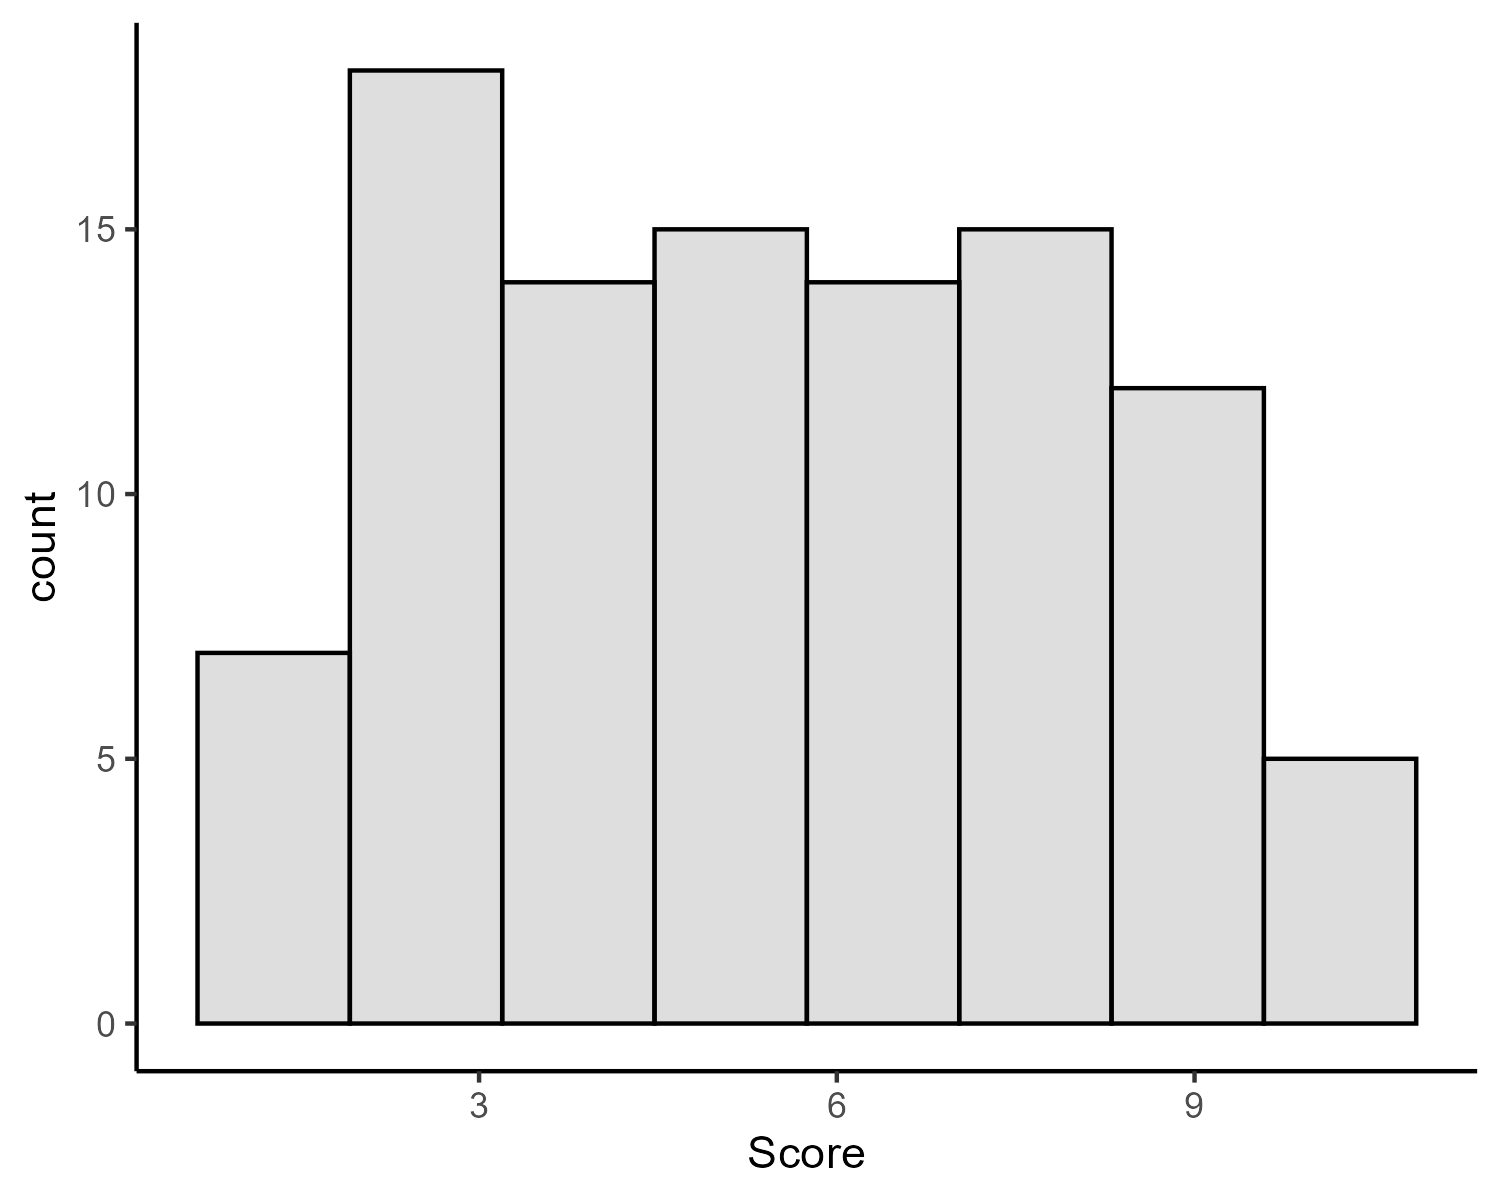
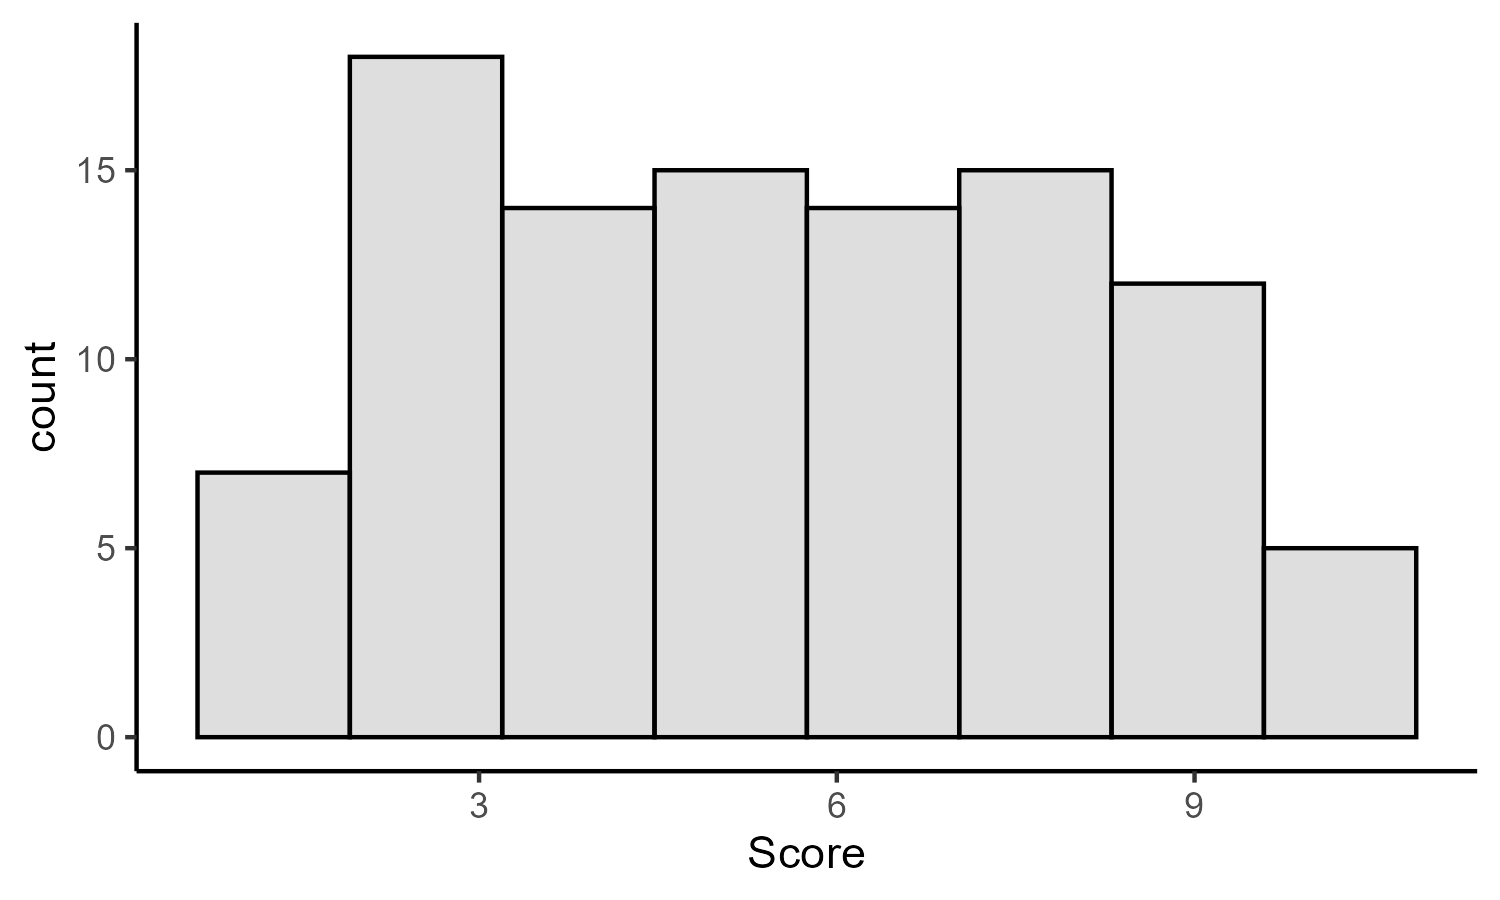
All charts saved

diff --git a/docs/manipulations-and-covariates.html b/docs/manipulations-and-covariates.html
@@ -376,7 +376,7 @@ Figure 3.1: Figure 1. A reminder about the data patterns that correspond to vari
 <span id="cb8-8"><a href="manipulations-and-covariates.html#cb8-8" tabindex="-1"></a>  <span class="fu">theme_classic</span>()</span>
 <span id="cb8-9"><a href="manipulations-and-covariates.html#cb8-9" tabindex="-1"></a></span>
 <span id="cb8-10"><a href="manipulations-and-covariates.html#cb8-10" tabindex="-1"></a><span class="co"># Save the histogram as a high quality .png image</span></span>
-<span id="cb8-11"><a href="manipulations-and-covariates.html#cb8-11" tabindex="-1"></a><span class="fu">ggsave</span>(<span class="st">&quot;Figs/hist_1.png&quot;</span>,<span class="at">height =</span> <span class="dv">4</span>, <span class="at">width =</span> <span class="dv">5</span>, <span class="at">dpi =</span> <span class="dv">300</span>)</span>
+<span id="cb8-11"><a href="manipulations-and-covariates.html#cb8-11" tabindex="-1"></a><span class="fu">ggsave</span>(<span class="st">&quot;Figs/hist_1.png&quot;</span>,histogram,<span class="at">height =</span> <span class="dv">3</span>, <span class="at">width =</span> <span class="dv">5</span>, <span class="at">dpi =</span> <span class="dv">300</span>)</span>
 <span id="cb8-12"><a href="manipulations-and-covariates.html#cb8-12" tabindex="-1"></a></span>
 <span id="cb8-13"><a href="manipulations-and-covariates.html#cb8-13" tabindex="-1"></a><span class="co"># Call back the high quality image </span></span>
 <span id="cb8-14"><a href="manipulations-and-covariates.html#cb8-14" tabindex="-1"></a>knitr<span class="sc">::</span><span class="fu">include_graphics</span>(<span class="st">&quot;Figs/hist_1.png&quot;</span>)</span></code></pre></div>
@@ -389,8 +389,18 @@ Figure 3.1: Figure 1. A reminder about the data patterns that correspond to vari
 <span id="cb9-3"><a href="manipulations-and-covariates.html#cb9-3" tabindex="-1"></a>  <span class="at">Score =</span> <span class="fu">rnorm</span>(<span class="at">n =</span> <span class="dv">100</span>, <span class="at">mean =</span> <span class="dv">100</span>, <span class="at">sd =</span> <span class="dv">15</span>) <span class="co"># sample from normal distribution</span></span>
 <span id="cb9-4"><a href="manipulations-and-covariates.html#cb9-4" tabindex="-1"></a>)</span>
 <span id="cb9-5"><a href="manipulations-and-covariates.html#cb9-5" tabindex="-1"></a></span>
-<span id="cb9-6"><a href="manipulations-and-covariates.html#cb9-6" tabindex="-1"></a><span class="fu">hist</span>(e<span class="sc">$</span>Score, <span class="at">xlab =</span> <span class="st">&quot;Random value (x)&quot;</span>, <span class="at">col =</span> <span class="st">&quot;grey&quot;</span>, <span class="at">main =</span> <span class="st">&quot;&quot;</span>, <span class="at">cex.lab =</span> <span class="fl">1.5</span>, <span class="at">cex.axis =</span> <span class="fl">1.5</span>)</span></code></pre></div>
-<p><img src="_main_files/figure-html/unnamed-chunk-5-1.png" width="672" /></p>
+<span id="cb9-6"><a href="manipulations-and-covariates.html#cb9-6" tabindex="-1"></a><span class="co"># Generate the chart</span></span>
+<span id="cb9-7"><a href="manipulations-and-covariates.html#cb9-7" tabindex="-1"></a>histogram <span class="ot">&lt;-</span> e <span class="sc">%&gt;%</span></span>
+<span id="cb9-8"><a href="manipulations-and-covariates.html#cb9-8" tabindex="-1"></a>  <span class="fu">ggplot</span>(<span class="fu">aes</span>(<span class="at">x=</span>Score))<span class="sc">+</span></span>
+<span id="cb9-9"><a href="manipulations-and-covariates.html#cb9-9" tabindex="-1"></a>  <span class="fu">geom_histogram</span>(<span class="at">bins =</span> <span class="dv">8</span>, <span class="at">alpha=</span><span class="fl">0.2</span>, <span class="at">colour =</span> <span class="st">&quot;black&quot;</span>)<span class="sc">+</span></span>
+<span id="cb9-10"><a href="manipulations-and-covariates.html#cb9-10" tabindex="-1"></a>  <span class="fu">theme_classic</span>()</span>
+<span id="cb9-11"><a href="manipulations-and-covariates.html#cb9-11" tabindex="-1"></a></span>
+<span id="cb9-12"><a href="manipulations-and-covariates.html#cb9-12" tabindex="-1"></a><span class="co"># Save the histogram as a high quality .png image</span></span>
+<span id="cb9-13"><a href="manipulations-and-covariates.html#cb9-13" tabindex="-1"></a><span class="fu">ggsave</span>(<span class="st">&quot;Figs/hist_2.png&quot;</span>,histogram,<span class="at">height =</span> <span class="dv">3</span>, <span class="at">width =</span> <span class="dv">5</span>, <span class="at">dpi =</span> <span class="dv">300</span>)</span>
+<span id="cb9-14"><a href="manipulations-and-covariates.html#cb9-14" tabindex="-1"></a></span>
+<span id="cb9-15"><a href="manipulations-and-covariates.html#cb9-15" tabindex="-1"></a><span class="co"># Call back the high quality image </span></span>
+<span id="cb9-16"><a href="manipulations-and-covariates.html#cb9-16" tabindex="-1"></a>knitr<span class="sc">::</span><span class="fu">include_graphics</span>(<span class="st">&quot;Figs/hist_2.png&quot;</span>)</span></code></pre></div>
+<p><img src="Figs/hist_2.png" width="750" /></p>
 </div>
 <div id="sampling-from-a-list-of-values" class="section level3 unnumbered hasAnchor">
 <h3>Sampling from a list of values<a href="manipulations-and-covariates.html#sampling-from-a-list-of-values" class="anchor-section" aria-label="Anchor link to header"></a></h3>
@@ -409,8 +419,18 @@ Figure 3.1: Figure 1. A reminder about the data patterns that correspond to vari
 <span id="cb10-13"><a href="manipulations-and-covariates.html#cb10-13" tabindex="-1"></a>  <span class="at">Score =</span> <span class="fu">sample</span>(<span class="at">x=</span><span class="fu">c</span>(<span class="dv">1</span><span class="sc">:</span><span class="dv">7</span>),<span class="at">size=</span><span class="dv">100</span>,<span class="at">replace =</span> <span class="cn">TRUE</span>,<span class="at">prob =</span> Prob_info) <span class="co"># use prob info</span></span>
 <span id="cb10-14"><a href="manipulations-and-covariates.html#cb10-14" tabindex="-1"></a>)</span>
 <span id="cb10-15"><a href="manipulations-and-covariates.html#cb10-15" tabindex="-1"></a></span>
-<span id="cb10-16"><a href="manipulations-and-covariates.html#cb10-16" tabindex="-1"></a><span class="fu">hist</span>(g<span class="sc">$</span>Score, <span class="at">xlab =</span> <span class="st">&quot;Random value (x)&quot;</span>, <span class="at">col =</span> <span class="st">&quot;grey&quot;</span>, <span class="at">main =</span> <span class="st">&quot;&quot;</span>, <span class="at">cex.lab =</span> <span class="fl">1.5</span>, <span class="at">cex.axis =</span> <span class="fl">1.5</span>)</span></code></pre></div>
-<p><img src="_main_files/figure-html/unnamed-chunk-6-1.png" width="672" /></p>
+<span id="cb10-16"><a href="manipulations-and-covariates.html#cb10-16" tabindex="-1"></a><span class="co"># Generate the chart</span></span>
+<span id="cb10-17"><a href="manipulations-and-covariates.html#cb10-17" tabindex="-1"></a>histogram <span class="ot">&lt;-</span> g <span class="sc">%&gt;%</span></span>
+<span id="cb10-18"><a href="manipulations-and-covariates.html#cb10-18" tabindex="-1"></a>  <span class="fu">ggplot</span>(<span class="fu">aes</span>(<span class="at">x=</span>Score))<span class="sc">+</span></span>
+<span id="cb10-19"><a href="manipulations-and-covariates.html#cb10-19" tabindex="-1"></a>  <span class="fu">geom_histogram</span>(<span class="at">bins =</span> <span class="dv">8</span>, <span class="at">alpha=</span><span class="fl">0.2</span>, <span class="at">colour =</span> <span class="st">&quot;black&quot;</span>)<span class="sc">+</span></span>
+<span id="cb10-20"><a href="manipulations-and-covariates.html#cb10-20" tabindex="-1"></a>  <span class="fu">theme_classic</span>()</span>
+<span id="cb10-21"><a href="manipulations-and-covariates.html#cb10-21" tabindex="-1"></a></span>
+<span id="cb10-22"><a href="manipulations-and-covariates.html#cb10-22" tabindex="-1"></a><span class="co"># Save the histogram as a high quality .png image</span></span>
+<span id="cb10-23"><a href="manipulations-and-covariates.html#cb10-23" tabindex="-1"></a><span class="fu">ggsave</span>(<span class="st">&quot;Figs/hist_3.png&quot;</span>,histogram,<span class="at">height =</span> <span class="dv">3</span>, <span class="at">width =</span> <span class="dv">5</span>, <span class="at">dpi =</span> <span class="dv">300</span>)</span>
+<span id="cb10-24"><a href="manipulations-and-covariates.html#cb10-24" tabindex="-1"></a></span>
+<span id="cb10-25"><a href="manipulations-and-covariates.html#cb10-25" tabindex="-1"></a><span class="co"># Call back the high quality image </span></span>
+<span id="cb10-26"><a href="manipulations-and-covariates.html#cb10-26" tabindex="-1"></a>knitr<span class="sc">::</span><span class="fu">include_graphics</span>(<span class="st">&quot;Figs/hist_3.png&quot;</span>)</span></code></pre></div>
+<p><img src="Figs/hist_3.png" width="750" /></p>
 </div>
 <div id="example-of-a-complete-dataset" class="section level3 unnumbered hasAnchor">
 <h3>Example of a complete dataset<a href="manipulations-and-covariates.html#example-of-a-complete-dataset" class="anchor-section" aria-label="Anchor link to header"></a></h3>

diff --git a/docs/correlation-statistics-and-plots.html b/docs/correlation-statistics-and-plots.html
@@ -352,11 +352,18 @@ code span.wa { color: #60a0b0; font-weight: bold; font-style: italic; } /* Warni
 </div>
 <div id="code-to-generate-a-basic-scatterplot" class="section level3 unnumbered hasAnchor">
 <h3>Code to generate a basic scatterplot:<a href="correlation-statistics-and-plots.html#code-to-generate-a-basic-scatterplot" class="anchor-section" aria-label="Anchor link to header"></a></h3>
-<div class="sourceCode" id="cb23"><pre class="sourceCode r"><code class="sourceCode r"><span id="cb23-1"><a href="correlation-statistics-and-plots.html#cb23-1" tabindex="-1"></a>data <span class="sc">%&gt;%</span></span>
+<div class="sourceCode" id="cb23"><pre class="sourceCode r"><code class="sourceCode r"><span id="cb23-1"><a href="correlation-statistics-and-plots.html#cb23-1" tabindex="-1"></a>basic <span class="ot">&lt;-</span> data <span class="sc">%&gt;%</span></span>
 <span id="cb23-2"><a href="correlation-statistics-and-plots.html#cb23-2" tabindex="-1"></a>  <span class="fu">ggplot</span>(<span class="fu">aes</span>(<span class="at">x =</span> Age, <span class="at">y =</span> IQ))<span class="sc">+</span></span>
 <span id="cb23-3"><a href="correlation-statistics-and-plots.html#cb23-3" tabindex="-1"></a>  <span class="fu">geom_point</span>()<span class="sc">+</span></span>
-<span id="cb23-4"><a href="correlation-statistics-and-plots.html#cb23-4" tabindex="-1"></a>  <span class="fu">geom_smooth</span>(<span class="at">method =</span> <span class="st">&quot;lm&quot;</span>)</span></code></pre></div>
-<p><img src="_main_files/figure-html/unnamed-chunk-15-1.png" width="672" /></p>
+<span id="cb23-4"><a href="correlation-statistics-and-plots.html#cb23-4" tabindex="-1"></a>  <span class="fu">geom_smooth</span>(<span class="at">method =</span> <span class="st">&quot;lm&quot;</span>)</span>
+<span id="cb23-5"><a href="correlation-statistics-and-plots.html#cb23-5" tabindex="-1"></a></span>
+<span id="cb23-6"><a href="correlation-statistics-and-plots.html#cb23-6" tabindex="-1"></a><span class="co"># Save a high quality .png image</span></span>
+<span id="cb23-7"><a href="correlation-statistics-and-plots.html#cb23-7" tabindex="-1"></a><span class="do">## Default size is 7 inches x 7 seven inches</span></span>
+<span id="cb23-8"><a href="correlation-statistics-and-plots.html#cb23-8" tabindex="-1"></a><span class="fu">ggsave</span>(<span class="st">&quot;Figs/scatter_1.png&quot;</span>,basic, <span class="at">dpi =</span> <span class="dv">300</span>)</span>
+<span id="cb23-9"><a href="correlation-statistics-and-plots.html#cb23-9" tabindex="-1"></a></span>
+<span id="cb23-10"><a href="correlation-statistics-and-plots.html#cb23-10" tabindex="-1"></a><span class="co"># Call back the high quality image </span></span>
+<span id="cb23-11"><a href="correlation-statistics-and-plots.html#cb23-11" tabindex="-1"></a>knitr<span class="sc">::</span><span class="fu">include_graphics</span>(<span class="st">&quot;Figs/scatter_1.png&quot;</span>)</span></code></pre></div>
+<p><img src="Figs/scatter_1.png" width="1050" /></p>
 </div>
 <div id="a-fancier-better-looking-scatterplot" class="section level3 unnumbered hasAnchor">
 <h3>A fancier, better looking scatterplot:<a href="correlation-statistics-and-plots.html#a-fancier-better-looking-scatterplot" class="anchor-section" aria-label="Anchor link to header"></a></h3>

diff --git a/_main.tex b/_main.tex
@@ -450,7 +450,7 @@ Examples of how Rstudio can be used to assign single values, lists of values, or
   \FunctionTok{theme\_classic}\NormalTok{()}
 
 \CommentTok{\# Save the histogram as a high quality .png image}
-\FunctionTok{ggsave}\NormalTok{(}\StringTok{"Figs/hist\_1.png"}\NormalTok{,}\AttributeTok{height =} \DecValTok{4}\NormalTok{, }\AttributeTok{width =} \DecValTok{5}\NormalTok{, }\AttributeTok{dpi =} \DecValTok{300}\NormalTok{)}
+\FunctionTok{ggsave}\NormalTok{(}\StringTok{"Figs/hist\_1.png"}\NormalTok{,histogram,}\AttributeTok{height =} \DecValTok{3}\NormalTok{, }\AttributeTok{width =} \DecValTok{5}\NormalTok{, }\AttributeTok{dpi =} \DecValTok{300}\NormalTok{)}
 
 \CommentTok{\# Call back the high quality image }
 \NormalTok{knitr}\SpecialCharTok{::}\FunctionTok{include\_graphics}\NormalTok{(}\StringTok{"Figs/hist\_1.png"}\NormalTok{)}
@@ -469,11 +469,21 @@ Examples of how Rstudio can be used to assign single values, lists of values, or
   \AttributeTok{Score =} \FunctionTok{rnorm}\NormalTok{(}\AttributeTok{n =} \DecValTok{100}\NormalTok{, }\AttributeTok{mean =} \DecValTok{100}\NormalTok{, }\AttributeTok{sd =} \DecValTok{15}\NormalTok{) }\CommentTok{\# sample from normal distribution}
 \NormalTok{)}
 
-\FunctionTok{hist}\NormalTok{(e}\SpecialCharTok{$}\NormalTok{Score, }\AttributeTok{xlab =} \StringTok{"Random value (x)"}\NormalTok{, }\AttributeTok{col =} \StringTok{"grey"}\NormalTok{, }\AttributeTok{main =} \StringTok{""}\NormalTok{, }\AttributeTok{cex.lab =} \FloatTok{1.5}\NormalTok{, }\AttributeTok{cex.axis =} \FloatTok{1.5}\NormalTok{)}
+\CommentTok{\# Generate the chart}
+\NormalTok{histogram }\OtherTok{\textless{}{-}}\NormalTok{ e }\SpecialCharTok{\%\textgreater{}\%}
+  \FunctionTok{ggplot}\NormalTok{(}\FunctionTok{aes}\NormalTok{(}\AttributeTok{x=}\NormalTok{Score))}\SpecialCharTok{+}
+  \FunctionTok{geom\_histogram}\NormalTok{(}\AttributeTok{bins =} \DecValTok{8}\NormalTok{, }\AttributeTok{alpha=}\FloatTok{0.2}\NormalTok{, }\AttributeTok{colour =} \StringTok{"black"}\NormalTok{)}\SpecialCharTok{+}
+  \FunctionTok{theme\_classic}\NormalTok{()}
+
+\CommentTok{\# Save the histogram as a high quality .png image}
+\FunctionTok{ggsave}\NormalTok{(}\StringTok{"Figs/hist\_2.png"}\NormalTok{,histogram,}\AttributeTok{height =} \DecValTok{3}\NormalTok{, }\AttributeTok{width =} \DecValTok{5}\NormalTok{, }\AttributeTok{dpi =} \DecValTok{300}\NormalTok{)}
+
+\CommentTok{\# Call back the high quality image }
+\NormalTok{knitr}\SpecialCharTok{::}\FunctionTok{include\_graphics}\NormalTok{(}\StringTok{"Figs/hist\_2.png"}\NormalTok{)}
 \end{Highlighting}
 \end{Shaded}
 
-\includegraphics{_main_files/figure-latex/unnamed-chunk-5-1.pdf}
+\includegraphics[width=20.83in]{Figs/hist_2}
 
 \subsection*{Sampling from a list of values}\label{sampling-from-a-list-of-values}
 \addcontentsline{toc}{subsection}{Sampling from a list of values}
@@ -495,11 +505,21 @@ Examples of how Rstudio can be used to assign single values, lists of values, or
   \AttributeTok{Score =} \FunctionTok{sample}\NormalTok{(}\AttributeTok{x=}\FunctionTok{c}\NormalTok{(}\DecValTok{1}\SpecialCharTok{:}\DecValTok{7}\NormalTok{),}\AttributeTok{size=}\DecValTok{100}\NormalTok{,}\AttributeTok{replace =} \ConstantTok{TRUE}\NormalTok{,}\AttributeTok{prob =}\NormalTok{ Prob\_info) }\CommentTok{\# use prob info}
 \NormalTok{)}
 
-\FunctionTok{hist}\NormalTok{(g}\SpecialCharTok{$}\NormalTok{Score, }\AttributeTok{xlab =} \StringTok{"Random value (x)"}\NormalTok{, }\AttributeTok{col =} \StringTok{"grey"}\NormalTok{, }\AttributeTok{main =} \StringTok{""}\NormalTok{, }\AttributeTok{cex.lab =} \FloatTok{1.5}\NormalTok{, }\AttributeTok{cex.axis =} \FloatTok{1.5}\NormalTok{)}
+\CommentTok{\# Generate the chart}
+\NormalTok{histogram }\OtherTok{\textless{}{-}}\NormalTok{ g }\SpecialCharTok{\%\textgreater{}\%}
+  \FunctionTok{ggplot}\NormalTok{(}\FunctionTok{aes}\NormalTok{(}\AttributeTok{x=}\NormalTok{Score))}\SpecialCharTok{+}
+  \FunctionTok{geom\_histogram}\NormalTok{(}\AttributeTok{bins =} \DecValTok{8}\NormalTok{, }\AttributeTok{alpha=}\FloatTok{0.2}\NormalTok{, }\AttributeTok{colour =} \StringTok{"black"}\NormalTok{)}\SpecialCharTok{+}
+  \FunctionTok{theme\_classic}\NormalTok{()}
+
+\CommentTok{\# Save the histogram as a high quality .png image}
+\FunctionTok{ggsave}\NormalTok{(}\StringTok{"Figs/hist\_3.png"}\NormalTok{,histogram,}\AttributeTok{height =} \DecValTok{3}\NormalTok{, }\AttributeTok{width =} \DecValTok{5}\NormalTok{, }\AttributeTok{dpi =} \DecValTok{300}\NormalTok{)}
+
+\CommentTok{\# Call back the high quality image }
+\NormalTok{knitr}\SpecialCharTok{::}\FunctionTok{include\_graphics}\NormalTok{(}\StringTok{"Figs/hist\_3.png"}\NormalTok{)}
 \end{Highlighting}
 \end{Shaded}
 
-\includegraphics{_main_files/figure-latex/unnamed-chunk-6-1.pdf}
+\includegraphics[width=20.83in]{Figs/hist_3}
 
 \subsection*{Example of a complete dataset}\label{example-of-a-complete-dataset}
 \addcontentsline{toc}{subsection}{Example of a complete dataset}
@@ -743,14 +763,21 @@ Write a closing paragraph (3-5 sentences) summarizing what it is like trying to 
 
 \begin{Shaded}
 \begin{Highlighting}[]
-\NormalTok{data }\SpecialCharTok{\%\textgreater{}\%}
+\NormalTok{basic }\OtherTok{\textless{}{-}}\NormalTok{ data }\SpecialCharTok{\%\textgreater{}\%}
   \FunctionTok{ggplot}\NormalTok{(}\FunctionTok{aes}\NormalTok{(}\AttributeTok{x =}\NormalTok{ Age, }\AttributeTok{y =}\NormalTok{ IQ))}\SpecialCharTok{+}
   \FunctionTok{geom\_point}\NormalTok{()}\SpecialCharTok{+}
   \FunctionTok{geom\_smooth}\NormalTok{(}\AttributeTok{method =} \StringTok{"lm"}\NormalTok{)}
+
+\CommentTok{\# Save a high quality .png image}
+\DocumentationTok{\#\# Default size is 7 inches x 7 seven inches}
+\FunctionTok{ggsave}\NormalTok{(}\StringTok{"Figs/scatter\_1.png"}\NormalTok{,basic, }\AttributeTok{dpi =} \DecValTok{300}\NormalTok{)}
+
+\CommentTok{\# Call back the high quality image }
+\NormalTok{knitr}\SpecialCharTok{::}\FunctionTok{include\_graphics}\NormalTok{(}\StringTok{"Figs/scatter\_1.png"}\NormalTok{)}
 \end{Highlighting}
 \end{Shaded}
 
-\includegraphics{_main_files/figure-latex/unnamed-chunk-15-1.pdf}
+\includegraphics[width=27.08in]{Figs/scatter_1}
 
 \subsection*{A fancier, better looking scatterplot:}\label{a-fancier-better-looking-scatterplot}
 \addcontentsline{toc}{subsection}{A fancier, better looking scatterplot:}
